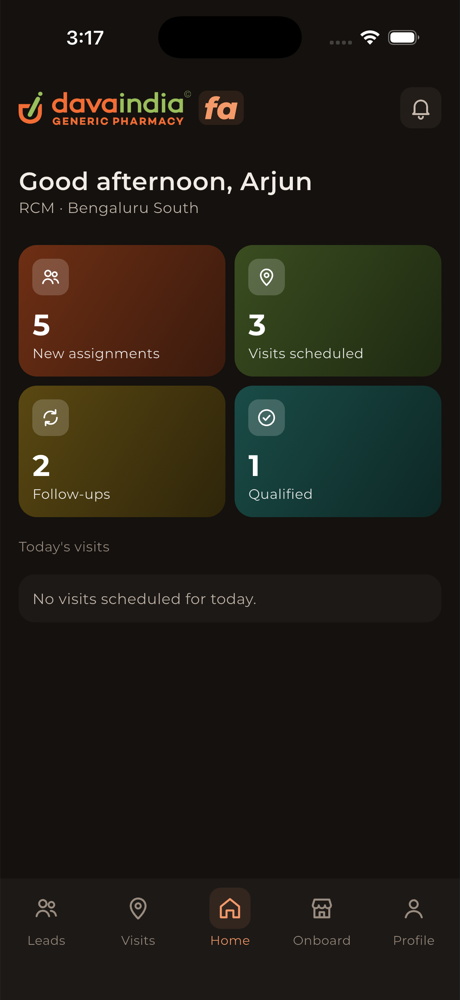
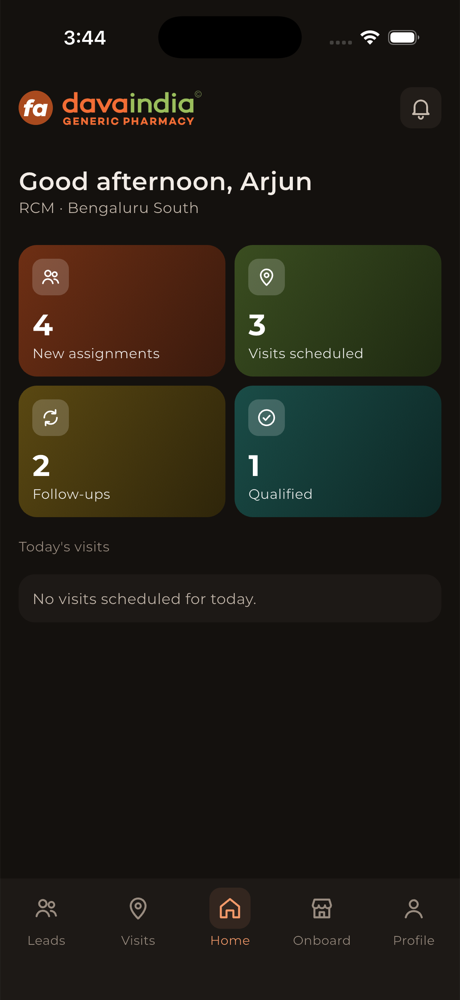
Update README and screenshots

Changed region(s): [[0.0304, 0.093, 0.5174, 0.124], [0.1217, 0.031, 0.2435, 0.062], [0.0609, 0.31, 0.1217, 0.341]]

diff --git a/README.md b/README.md
@@ -40,7 +40,7 @@ Built so far:
 - Profile tab with contact details, app version, a copyable device ID and sign out.
 - Light and dark themes that follow the phone setting.
 - Custom icon set drawn from SVG sources, with no icon font or SVG library.
-- The official Dava India logo with an "fa" tag inside the app; the launcher icon is generated from vector outlines by `scripts/app_icon/generate.py`.
+- The "fa" mark (italic, white on clay) is the launcher icon and leads the in-app logo, followed by the official davaindia lettering. Generated from vector outlines by `scripts/app_icon/generate.py`.
 - Montserrat, bundled with the app.
 - Demo mode that answers the API with sample data.
 
@@ -97,7 +97,7 @@ After adding or changing an SVG in `assets/icons/`, regenerate the icon code:
 dart run scripts/gen_icons.dart
 ```
 
-To rebuild the app icon and the "fa" tag (needs `pip install fonttools uharfbuzz`, `rsvg-convert` and ImageMagick):
+To rebuild the app icon and the "fa" mark (needs `pip install fonttools uharfbuzz`, `rsvg-convert` and ImageMagick):
 
 ```bash
 python3 scripts/app_icon/generate.py
@@ -128,7 +128,7 @@ lib/
   core/         theme tokens, icons, API client, session, shared widgets
   features/     one folder per area: auth, home, leads, visits, onboarding, profile, alerts
 assets/icons/   SVG sources for the icon set
-assets/brand/   Dava India logo (light and dark, 1x to 3x)
+assets/brand/   davaindia lettering from the official logo (light and dark, 1x to 3x)
 assets/fonts/   Montserrat (SIL Open Font License)
 scripts/        icon set and app icon generators
 test/           unit and widget tests
